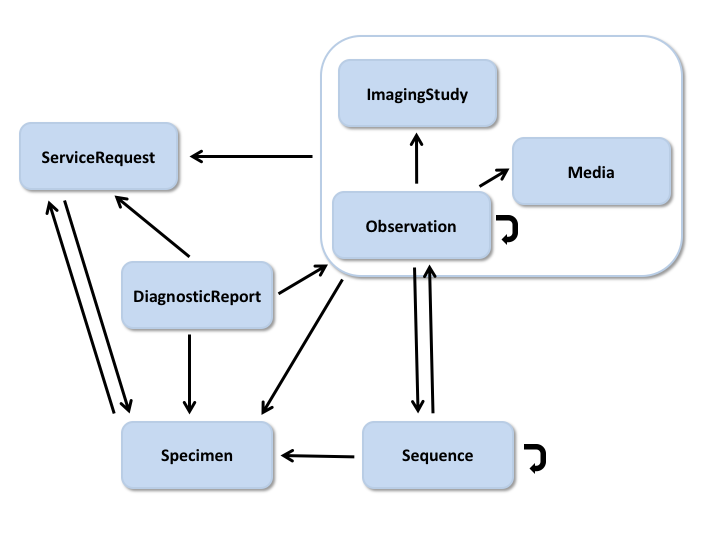
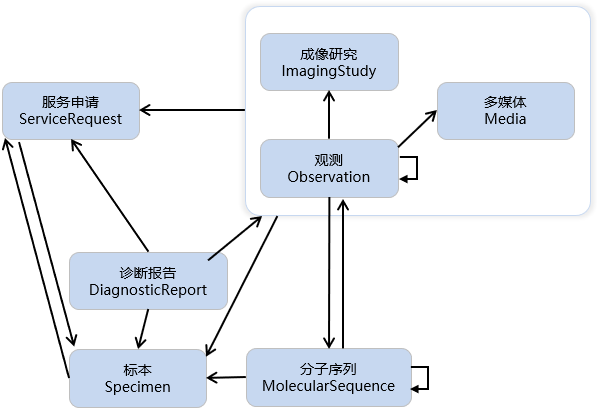
辅助诊断

Changed region(s): [[0.0, 0.0584, 0.9648, 0.9927], [0.9648, 0.4964, 0.995, 0.5255]]

diff --git a/docs/R4/diagnostics-module.html b/docs/R4/diagnostics-module.html
@@ -2,7 +2,7 @@
   <!-- These elements SHALL always appear in this order. These basic elements shared by all resources come first
 in order to support consistent definitions for schema and UML derived code. --><html xmlns="http://www.w3.org/1999/xhtml" xml:lang="zh-CN" lang="zh-CN">
 <head>
-    <title>诊断学 - HL7 FHIR 中国</title>
+    <title>辅助诊断组件 - HL7 FHIR 中国</title>
 
 
   
@@ -64,7 +64,7 @@ in order to support consistent definitions for schema and UML derived code. --><
 	<div id="segment-breadcrumb" class="segment">  <!-- segment-breadcrumb -->
 		<div class="container">  <!-- container -->	
 			<ul class="breadcrumb">
-        <li><b><img src="diagnostics.jpg"/> 诊断学</b></li>          <!-- diagnostics-module.html / page / -->
+        <li><b><img src="diagnostics.jpg"/> 辅助诊断组件</b></li>          <!-- diagnostics-module.html / page / -->
         <div class="breadcrumbRight">
             <ul>
                 <li>
@@ -91,107 +91,135 @@ in order to support consistent definitions for schema and UML derived code. --><
 <table class="colsi"><tr><td id="wg">工作组: <a href="http://www.hl7.org/Special/committees/orders/index.cfm" _target="blank">Orders and Observations <img src="external.png" style="text-align: baseline"/></a> &amp; <a href="http://www.hl7.org/Special/committees/clingenomics/index.cfm" _target="blank">Clinical Genomics <img src="external.png" style="text-align: baseline"/></a> </td><td id="ballot"><a href="versions.html#std-process">标准状态</a>:  <!-- !ns! --><a href="versions.html#std-process">Informative</a></td></tr></table>
 
 <a name="root"></a>
-<h2 class="self-link-parent"><span class="sectioncount">10.0<a name="10.0"> </a></span> Diagnostic Medicine Module <a href="diagnostics-module.html#10.0" title="此处链接地址" class="self-link"><svg viewBox="0 0 1792 1792" width="20" class="self-link" height="20"><path d="M1520 1216q0-40-28-68l-208-208q-28-28-68-28-42 0-72 32 3 3 19 18.5t21.5 21.5 15 19 13 25.5 3.5 27.5q0 40-28 68t-68 28q-15 0-27.5-3.5t-25.5-13-19-15-21.5-21.5-18.5-19q-33 31-33 73 0 40 28 68l206 207q27 27 68 27 40 0 68-26l147-146q28-28 28-67zm-703-705q0-40-28-68l-206-207q-28-28-68-28-39 0-68 27l-147 146q-28 28-28 67 0 40 28 68l208 208q27 27 68 27 42 0 72-31-3-3-19-18.5t-21.5-21.5-15-19-13-25.5-3.5-27.5q0-40 28-68t68-28q15 0 27.5 3.5t25.5 13 19 15 21.5 21.5 18.5 19q33-31 33-73zm895 705q0 120-85 203l-147 146q-83 83-203 83-121 0-204-85l-206-207q-83-83-83-203 0-123 88-209l-88-88q-86 88-208 88-120 0-204-84l-208-208q-84-84-84-204t85-203l147-146q83-83 203-83 121 0 204 85l206 207q83 83 83 203 0 123-88 209l88 88q86-88 208-88 120 0 204 84l208 208q84 84 84 204z" fill="navy"></path></svg></a></h2>
+<h2 class="self-link-parent"><span class="sectioncount">10.0<a name="10.0"> </a></span> 辅助诊断组件 <a href="diagnostics-module.html#10.0" title="此处链接地址" class="self-link"><svg viewBox="0 0 1792 1792" width="20" class="self-link" height="20"><path d="M1520 1216q0-40-28-68l-208-208q-28-28-68-28-42 0-72 32 3 3 19 18.5t21.5 21.5 15 19 13 25.5 3.5 27.5q0 40-28 68t-68 28q-15 0-27.5-3.5t-25.5-13-19-15-21.5-21.5-18.5-19q-33 31-33 73 0 40 28 68l206 207q27 27 68 27 40 0 68-26l147-146q28-28 28-67zm-703-705q0-40-28-68l-206-207q-28-28-68-28-39 0-68 27l-147 146q-28 28-28 67 0 40 28 68l208 208q27 27 68 27 42 0 72-31-3-3-19-18.5t-21.5-21.5-15-19-13-25.5-3.5-27.5q0-40 28-68t68-28q15 0 27.5 3.5t25.5 13 19 15 21.5 21.5 18.5 19q33-31 33-73zm895 705q0 120-85 203l-147 146q-83 83-203 83-121 0-204-85l-206-207q-83-83-83-203 0-123 88-209l-88-88q-86 88-208 88-120 0-204-84l-208-208q-84-84-84-204t85-203l147-146q83-83 203-83 121 0 204 85l206 207q83 83 83 203 0 123-88 209l88 88q86-88 208-88 120 0 204 84l208 208q84 84 84 204z" fill="navy"></path></svg></a></h2>
 
 <a name="intro"></a>
-<h3 class="self-link-parent"><span class="sectioncount">10.0.1</span> Introduction <a href="diagnostics-module.html#intro" title="此处链接地址" class="self-link"><svg viewBox="0 0 1792 1792" width="20" class="self-link" height="20"><path d="M1520 1216q0-40-28-68l-208-208q-28-28-68-28-42 0-72 32 3 3 19 18.5t21.5 21.5 15 19 13 25.5 3.5 27.5q0 40-28 68t-68 28q-15 0-27.5-3.5t-25.5-13-19-15-21.5-21.5-18.5-19q-33 31-33 73 0 40 28 68l206 207q27 27 68 27 40 0 68-26l147-146q28-28 28-67zm-703-705q0-40-28-68l-206-207q-28-28-68-28-39 0-68 27l-147 146q-28 28-28 67 0 40 28 68l208 208q27 27 68 27 42 0 72-31-3-3-19-18.5t-21.5-21.5-15-19-13-25.5-3.5-27.5q0-40 28-68t68-28q15 0 27.5 3.5t25.5 13 19 15 21.5 21.5 18.5 19q33-31 33-73zm895 705q0 120-85 203l-147 146q-83 83-203 83-121 0-204-85l-206-207q-83-83-83-203 0-123 88-209l-88-88q-86 88-208 88-120 0-204-84l-208-208q-84-84-84-204t85-203l147-146q83-83 203-83 121 0 204 85l206 207q83 83 83 203 0 123-88 209l88 88q86-88 208-88 120 0 204 84l208 208q84 84 84 204z" fill="navy"></path></svg></a></h3>
+<h3 class="self-link-parent"><span class="sectioncount">10.0.1</span> 简介 <a href="diagnostics-module.html#intro" title="此处链接地址" class="self-link"><svg viewBox="0 0 1792 1792" width="20" class="self-link" height="20"><path d="M1520 1216q0-40-28-68l-208-208q-28-28-68-28-42 0-72 32 3 3 19 18.5t21.5 21.5 15 19 13 25.5 3.5 27.5q0 40-28 68t-68 28q-15 0-27.5-3.5t-25.5-13-19-15-21.5-21.5-18.5-19q-33 31-33 73 0 40 28 68l206 207q27 27 68 27 40 0 68-26l147-146q28-28 28-67zm-703-705q0-40-28-68l-206-207q-28-28-68-28-39 0-68 27l-147 146q-28 28-28 67 0 40 28 68l208 208q27 27 68 27 42 0 72-31-3-3-19-18.5t-21.5-21.5-15-19-13-25.5-3.5-27.5q0-40 28-68t68-28q15 0 27.5 3.5t25.5 13 19 15 21.5 21.5 18.5 19q33-31 33-73zm895 705q0 120-85 203l-147 146q-83 83-203 83-121 0-204-85l-206-207q-83-83-83-203 0-123 88-209l-88-88q-86 88-208 88-120 0-204-84l-208-208q-84-84-84-204t85-203l147-146q83-83 203-83 121 0 204 85l206 207q83 83 83 203 0 123-88 209l88 88q86-88 208-88 120 0 204 84l208 208q84 84 84 204z" fill="navy"></path></svg></a></h3>
 <p>
-The Diagnostics Module provides an overview and guide to the FHIR content that addresses ordering and reporting of clinical diagnostics including laboratory testing, imaging and genomics.</p>
+    辅助诊断组件提供了FHIR中涉及临床诊断的医嘱和报告的相关内容与指南，包括实验室检验、影像检查和基因检测。</p>
 
 <a name="index"></a>
-<h3 class="self-link-parent"><span class="sectioncount">10.0.2</span> Index <a href="diagnostics-module.html#index" title="此处链接地址" class="self-link"><svg viewBox="0 0 1792 1792" width="20" class="self-link" height="20"><path d="M1520 1216q0-40-28-68l-208-208q-28-28-68-28-42 0-72 32 3 3 19 18.5t21.5 21.5 15 19 13 25.5 3.5 27.5q0 40-28 68t-68 28q-15 0-27.5-3.5t-25.5-13-19-15-21.5-21.5-18.5-19q-33 31-33 73 0 40 28 68l206 207q27 27 68 27 40 0 68-26l147-146q28-28 28-67zm-703-705q0-40-28-68l-206-207q-28-28-68-28-39 0-68 27l-147 146q-28 28-28 67 0 40 28 68l208 208q27 27 68 27 42 0 72-31-3-3-19-18.5t-21.5-21.5-15-19-13-25.5-3.5-27.5q0-40 28-68t68-28q15 0 27.5 3.5t25.5 13 19 15 21.5 21.5 18.5 19q33-31 33-73zm895 705q0 120-85 203l-147 146q-83 83-203 83-121 0-204-85l-206-207q-83-83-83-203 0-123 88-209l-88-88q-86 88-208 88-120 0-204-84l-208-208q-84-84-84-204t85-203l147-146q83-83 203-83 121 0 204 85l206 207q83 83 83 203 0 123-88 209l88 88q86-88 208-88 120 0 204 84l208 208q84 84 84 204z" fill="navy"></path></svg></a></h3>
-<p>The Diagnostics module covers the following resources:</p>
+<h3 class="self-link-parent"><span class="sectioncount">10.0.2</span> 索引 <a href="diagnostics-module.html#index" title="此处链接地址" class="self-link"><svg viewBox="0 0 1792 1792" width="20" class="self-link" height="20"><path d="M1520 1216q0-40-28-68l-208-208q-28-28-68-28-42 0-72 32 3 3 19 18.5t21.5 21.5 15 19 13 25.5 3.5 27.5q0 40-28 68t-68 28q-15 0-27.5-3.5t-25.5-13-19-15-21.5-21.5-18.5-19q-33 31-33 73 0 40 28 68l206 207q27 27 68 27 40 0 68-26l147-146q28-28 28-67zm-703-705q0-40-28-68l-206-207q-28-28-68-28-39 0-68 27l-147 146q-28 28-28 67 0 40 28 68l208 208q27 27 68 27 42 0 72-31-3-3-19-18.5t-21.5-21.5-15-19-13-25.5-3.5-27.5q0-40 28-68t68-28q15 0 27.5 3.5t25.5 13 19 15 21.5 21.5 18.5 19q33-31 33-73zm895 705q0 120-85 203l-147 146q-83 83-203 83-121 0-204-85l-206-207q-83-83-83-203 0-123 88-209l-88-88q-86 88-208 88-120 0-204-84l-208-208q-84-84-84-204t85-203l147-146q83-83 203-83 121 0 204 85l206 207q83 83 83 203 0 123-88 209l88 88q86-88 208-88 120 0 204 84l208 208q84 84 84 204z" fill="navy"></path></svg></a></h3>
+<p>辅助诊断组件包含了下列资源:</p>
 
 <table width="100%" style="table-layout: fixed">
  <tr>
  <td width="33%">
 <ul>
-<li><a href="observation.html">Observation</a></li>
-<li><a href="diagnosticreport.html">DiagnosticReport</a></li>
-<li><a href="servicerequest.html">ServiceRequest</a></li>
+<li><a href="observation.html">观测<br/>Observation</a></li>
+<li><a href="diagnosticreport.html">诊断报告<br/>DiagnosticReport</a></li>
+<li><a href="servicerequest.html">服务申请<br/>ServiceRequest</a></li>
   </ul>
 </td>
  <td width="33%">
 <ul>
-<li><a href="media.html">Media</a></li>
-<li><a href="imagingstudy.html">ImagingStudy</a></li>
-<li><a href="molecularsequence.html">MolecularSequence</a></li>
+<li><a href="media.html">多媒体<br/>Media</a></li>
+<li><a href="imagingstudy.html">成像研究<br/>ImagingStudy</a></li>
+<li><a href="molecularsequence.html">分子序列<br/>MolecularSequence</a></li>
 </ul>
 </td>
  <td width="33%">
 <ul>
- <li><a href="specimen.html">Specimen</a></li>
- <li><a href="bodystructure.html">BodyStructure</a></li>
+ <li><a href="specimen.html">标本<br/>Specimen</a></li>
+ <li><a href="bodystructure.html">人体结构<br/>BodyStructure</a></li>
  </ul>
 </td>
 </tr>
 </table>
 
-   <p>The diagnostic resources and their relationships are shown below.  The arrows represent the direction of the references between resources (for example, DiagnosticReport references ServiceRequest). See the <a href="workflow-module.html">Workflow Module</a> for information about the coordination of activities such as ordering and fulfilling of diagnostics.</p>
-    <img src="diagnostic-module-resources.png" alt="Image showing the diagnostic resources" width="800px"/>
+   <p>
+       辅助诊断资源及其关系如下所示。箭头表示资源之间引用的方向（例如，诊断报告资源DiagnosticReport引用服务申请资源ServiceRequest）。
+       欲了解活动协作的相关信息，如辅助诊断的申请与完成，请参阅<a href="workflow-module.html">工作流组件</a>。
+   </p>
 
-<blockquote><p> <b>Implementation Note:</b> 
-See the <a href="genomics.html">Genomics Implementation Guidance</a> for additional information about how to use the Diagnostic resources for Clinical Genomic Reporting and Analysis.
+    <img src="diagnostic-module-resources.png" alt="Image showing the diagnostic resources" />
+
+<blockquote><p>
+    <b>实施说明：</b>有关如何使用辅助诊断资源进行临床基因组报告和分析的更多信息，请参阅<a href="genomics.html">基因组学实施指南</a>。
+
 </p></blockquote>
 
     <table class="bare">
-        <tr><td><b>Name</b></td><td><b>Aliases</b></td><td><b>Description</b></td></tr>
-        <tr bgcolor="#EFEFEF"><td><a href="observation.html">Observation</a></td><td>Vital Signs, Measurement, Results</td><td>Measurements and simple assertions made about a patient, device or other subject.</td></tr>
+        <tr><td><b>名称</b></td><td><b>其它称谓</b></td><td><b>描述</b></td></tr>
+        <tr bgcolor="#EFEFEF"><td><a href="observation.html">Observation</a></td><td>生命体征、测量、结果</td><td>
+            关于患者、设备或其他目标的测量和简洁断言</td></tr>
 
-        <tr bgcolor="#FFFFFF"><td><a href="diagnosticreport.html">DiagnosticReport</a></td><td>Report, Test, Result, Results, Labs</td><td>The findings and interpretation of diagnostic  tests performed on patients, groups of patients, devices, and locations, and/or specimens derived from these. The report includes clinical context such as requesting and provider information, and some mix of atomic results, images, textual and coded interpretations, and formatted representation of diagnostic reports.</td></tr>
+        <tr bgcolor="#FFFFFF"><td><a href="diagnosticreport.html">DiagnosticReport</a></td><td>报告、检测、结果、试验</td>
+            <td>对患者、患者组、设备、位置或从中提取的标本进行的诊断试验的结果和解释。此报告包括了临床场景（如申请单、提供者信息），有些报告将单项指标结果、图像、文本和带编码的解释、以及带格式的诊断报告混合在一起。</td></tr>
 
-        <tr bgcolor="#EFEFEF"><td><a href="servicerequest.html">ServiceRequest</a></td><td>diagnostic request, referral, referral request</td><td>A record of a request for service such as diagnostic investigations, treatments, or operations to be performed.</td></tr>
+        <tr bgcolor="#EFEFEF"><td><a href="servicerequest.html">ServiceRequest</a></td>
+            <td>诊断申请、转诊、转诊申请</td>
+            <td>服务申请的记录，如诊断循症、治疗或要执行的操作。</td></tr>
 
-        <tr bgcolor="#FFFFFF"><td><a href="media.html">Media</a></td><td></td><td>A photo, video, or audio recording acquired or used in healthcare. The actual content may be inline or provided by direct reference.</td></tr>
+        <tr bgcolor="#FFFFFF"><td><a href="media.html">Media</a></td><td></td>
+            <td>在卫生健康领域获取或使用的照片、视频或音频记录。实际内容可以是内置的，也可以由直接引用提供。 </td></tr>
 
-        <tr bgcolor="#EFEFEF"><td><a href="imagingstudy.html">ImagingStudy</a></td><td></td><td>Representation of the content produced in a DICOM imaging study. A study comprises a set of series, each of which includes a set of Service-Object Pair Instances (SOP Instances - images or other data) acquired or produced in a common context.  A series is of only one modality (e.g. X-ray, CT, MR, ultrasound), but a study may have multiple series of different modalities.</td></tr>
+        <tr bgcolor="#EFEFEF"><td><a href="imagingstudy.html">ImagingStudy</a></td><td></td>
+            <td>
+                对DICOM成像研究中产生内容的表示。成像研究资源ImagingStudy包括一组序列，其中每个序列又包含一组在通用场景中获取或生成的实例（SOP实例：图像或其他数据），每个实例都是成对出现的服务与对象。一个序列只有一种形式（如X光、CT、MR、超声波），但一个ImagingStudy可能有多个不同的形式的序列。
+               </td></tr>
 
-        <tr bgcolor="#FFFFFF"><td><a href="molecularsequence.html">MolecularSequence</a></td><td></td><td>Raw data describing a biological sequence.</td></tr>
+        <tr bgcolor="#FFFFFF"><td><a href="molecularsequence.html">MolecularSequence</a></td><td></td>
+            <td>描述生物序列的原始数据。</td></tr>
 
-        <tr bgcolor="#EFEFEF"><td><a href="specimen.html">Specimen</a></td><td></td><td>A sample to be used for analysis.</td></tr>
+        <tr bgcolor="#EFEFEF"><td><a href="specimen.html">Specimen</a></td><td></td>
+            <td>用于分析的样本。</td></tr>
 
-        <tr bgcolor="#FFFFFF"><td><a href="bodystructure.html">BodyStructure</a></td><td>anatomical location</td><td>Record details about an anatomical structure.  This resource may be used when a coded concept does not provide the necessary detail needed for the use case.</td></tr>
+        <tr bgcolor="#FFFFFF"><td><a href="bodystructure.html">BodyStructure</a></td><td>解剖部位</td>
+            <td>记录有关解剖结构的详细信息。没有编码概念可以为用例提供所需的必要细节时，可以使用此资源。</td></tr>
 
     </table>
 
 <a name="secpriv"></a>
-<h3 class="self-link-parent"><span class="sectioncount">10.0.3</span> Security and Privacy <a href="diagnostics-module.html#secpriv" title="此处链接地址" class="self-link"><svg viewBox="0 0 1792 1792" width="20" class="self-link" height="20"><path d="M1520 1216q0-40-28-68l-208-208q-28-28-68-28-42 0-72 32 3 3 19 18.5t21.5 21.5 15 19 13 25.5 3.5 27.5q0 40-28 68t-68 28q-15 0-27.5-3.5t-25.5-13-19-15-21.5-21.5-18.5-19q-33 31-33 73 0 40 28 68l206 207q27 27 68 27 40 0 68-26l147-146q28-28 28-67zm-703-705q0-40-28-68l-206-207q-28-28-68-28-39 0-68 27l-147 146q-28 28-28 67 0 40 28 68l208 208q27 27 68 27 42 0 72-31-3-3-19-18.5t-21.5-21.5-15-19-13-25.5-3.5-27.5q0-40 28-68t68-28q15 0 27.5 3.5t25.5 13 19 15 21.5 21.5 18.5 19q33-31 33-73zm895 705q0 120-85 203l-147 146q-83 83-203 83-121 0-204-85l-206-207q-83-83-83-203 0-123 88-209l-88-88q-86 88-208 88-120 0-204-84l-208-208q-84-84-84-204t85-203l147-146q83-83 203-83 121 0 204 85l206 207q83 83 83 203 0 123-88 209l88 88q86-88 208-88 120 0 204 84l208 208q84 84 84 204z" fill="navy"></path></svg></a></h3>
+<h3 class="self-link-parent"><span class="sectioncount">10.0.3</span> 安全与隐私 <a href="diagnostics-module.html#secpriv" title="此处链接地址" class="self-link"><svg viewBox="0 0 1792 1792" width="20" class="self-link" height="20"><path d="M1520 1216q0-40-28-68l-208-208q-28-28-68-28-42 0-72 32 3 3 19 18.5t21.5 21.5 15 19 13 25.5 3.5 27.5q0 40-28 68t-68 28q-15 0-27.5-3.5t-25.5-13-19-15-21.5-21.5-18.5-19q-33 31-33 73 0 40 28 68l206 207q27 27 68 27 40 0 68-26l147-146q28-28 28-67zm-703-705q0-40-28-68l-206-207q-28-28-68-28-39 0-68 27l-147 146q-28 28-28 67 0 40 28 68l208 208q27 27 68 27 42 0 72-31-3-3-19-18.5t-21.5-21.5-15-19-13-25.5-3.5-27.5q0-40 28-68t68-28q15 0 27.5 3.5t25.5 13 19 15 21.5 21.5 18.5 19q33-31 33-73zm895 705q0 120-85 203l-147 146q-83 83-203 83-121 0-204-85l-206-207q-83-83-83-203 0-123 88-209l-88-88q-86 88-208 88-120 0-204-84l-208-208q-84-84-84-204t85-203l147-146q83-83 203-83 121 0 204 85l206 207q83 83 83 203 0 123-88 209l88 88q86-88 208-88 120 0 204 84l208 208q84 84 84 204z" fill="navy"></path></svg></a></h3>
 <p>
-The diagnostic resources often represent patient-specific data, and as such are susceptible to data breaching.  Necessary privacy and security provisions must be in place when searching and fetching this information.  For more general considerations, see <a href="secpriv-module.html">the Security and Privacy module</a>.
+    辅助诊断资源通常代表特定于患者的数据，因此容易受到数据破坏的影响。在搜索和获取此信息时，必须制定必要的隐私和安全规定。
+    有关更一般的注意事项，请参阅<a href="secpriv-module.html">安全与隐私组件</a>。
+
 </p>
 
 <a name="uses"></a>
-<h3 class="self-link-parent"><span class="sectioncount">10.0.4</span> Common Use Cases <a href="diagnostics-module.html#uses" title="此处链接地址" class="self-link"><svg viewBox="0 0 1792 1792" width="20" class="self-link" height="20"><path d="M1520 1216q0-40-28-68l-208-208q-28-28-68-28-42 0-72 32 3 3 19 18.5t21.5 21.5 15 19 13 25.5 3.5 27.5q0 40-28 68t-68 28q-15 0-27.5-3.5t-25.5-13-19-15-21.5-21.5-18.5-19q-33 31-33 73 0 40 28 68l206 207q27 27 68 27 40 0 68-26l147-146q28-28 28-67zm-703-705q0-40-28-68l-206-207q-28-28-68-28-39 0-68 27l-147 146q-28 28-28 67 0 40 28 68l208 208q27 27 68 27 42 0 72-31-3-3-19-18.5t-21.5-21.5-15-19-13-25.5-3.5-27.5q0-40 28-68t68-28q15 0 27.5 3.5t25.5 13 19 15 21.5 21.5 18.5 19q33-31 33-73zm895 705q0 120-85 203l-147 146q-83 83-203 83-121 0-204-85l-206-207q-83-83-83-203 0-123 88-209l-88-88q-86 88-208 88-120 0-204-84l-208-208q-84-84-84-204t85-203l147-146q83-83 203-83 121 0 204 85l206 207q83 83 83 203 0 123-88 209l88 88q86-88 208-88 120 0 204 84l208 208q84 84 84 204z" fill="navy"></path></svg></a></h3>
+<h3 class="self-link-parent"><span class="sectioncount">10.0.4</span> 常见用例 <a href="diagnostics-module.html#uses" title="此处链接地址" class="self-link"><svg viewBox="0 0 1792 1792" width="20" class="self-link" height="20"><path d="M1520 1216q0-40-28-68l-208-208q-28-28-68-28-42 0-72 32 3 3 19 18.5t21.5 21.5 15 19 13 25.5 3.5 27.5q0 40-28 68t-68 28q-15 0-27.5-3.5t-25.5-13-19-15-21.5-21.5-18.5-19q-33 31-33 73 0 40 28 68l206 207q27 27 68 27 40 0 68-26l147-146q28-28 28-67zm-703-705q0-40-28-68l-206-207q-28-28-68-28-39 0-68 27l-147 146q-28 28-28 67 0 40 28 68l208 208q27 27 68 27 42 0 72-31-3-3-19-18.5t-21.5-21.5-15-19-13-25.5-3.5-27.5q0-40 28-68t68-28q15 0 27.5 3.5t25.5 13 19 15 21.5 21.5 18.5 19q33-31 33-73zm895 705q0 120-85 203l-147 146q-83 83-203 83-121 0-204-85l-206-207q-83-83-83-203 0-123 88-209l-88-88q-86 88-208 88-120 0-204-84l-208-208q-84-84-84-204t85-203l147-146q83-83 203-83 121 0 204 85l206 207q83 83 83 203 0 123-88 209l88 88q86-88 208-88 120 0 204 84l208 208q84 84 84 204z" fill="navy"></path></svg></a></h3>
 <p>
-Diagnostic resources are commonly used to plan, recommend, order and report clinical diagnostics:
+
+    辅助诊断资源通常用于计划、推荐、下达和报告临床诊断：
 </p>
 <ul>
-<li>Planning a diagnostic test such as in this <a href="careplan-example-f203-sepsis.html">Careplan-example</a></li>
-<li>Recommending diagnostics such as is done by Clinical Decision Support tools. See the <a href="clinicalreasoning-module.html">Clinical Reasoning module</a> for more information.</li>
-<li>Ordering a Laboratory Test such as a <a href="servicerequest-example-lipid.html">lipid panel</a></li>
-<li>Reporting a Laboratory Test such as a <a href="diagnosticreport-example-lipids.html">lipid panel</a></li>
-<li>Ordering an imaging study such as a <a href="servicerequest-example-di.html">CT study</a></li>
-<li>Reporting an imaging study such as a <a href="imagingstudy-example.html">CT study</a></li>
-<li>Ordering a genetic test such as a <a href="servicerequest-genetics-example-1.html">gene mutation analysis </a></li>
-<li>Reporting a genetic test such as <a href="diagnosticreport-hla-genetics-results-example.html">HLA genotyping</a></li>
+<li>
+    计划一个诊断测试，见<a href="careplan-example-f203-sepsis.html">照护计划示例</a></li>
+<li>
+    诊断意见，如通过临床决策支持工具给出建议的诊断。有关更多信息，请参阅<a href="clinicalreasoning-module.html">临床推理组件</a>。
+   </li>
+<li>
+    下达检验申请，如<a href="servicerequest-example-lipid.html">血脂全项检测</a></li>
+<li>报告实验室检验结果，如 <a href="diagnosticreport-example-lipids.html">血脂全项报告</a></li>
+<li>下达影像检查，如<a href="servicerequest-example-di.html">CT 检查</a></li>
+<li>报告影像检查结果，如 <a href="imagingstudy-example.html">CT 报告</a></li>
+<li>下达基因检测申请，如 <a href="servicerequest-genetics-example-1.html">基因突变分析 </a></li>
+<li>报告基因检测结果，如 <a href="diagnosticreport-hla-genetics-results-example.html">HLA（人类白细胞抗原）基因分析结果</a></li>
 </ul>
-<p>
-There are many ways to use these resources independently as well.  The Observation resource, in particular, is central to capturing many measurements and events in healthcare and is often used outside the context of diagnostic orders and reports.
+<p>有很多方法可以独立地使用这些资源。特别是观测资源，在卫生健康领域中，许多测量和事件都是围绕着它来进行的，观测资源还常用于辅助诊断医嘱和报告之外的场境。
+
 </p>
 <ul>
-<li>recording vital signs such as <a href="observation-example-f202-temperature.html">temperature</a></li>
-<li>recording other observations of a patient's social history such as tobacco use</li>
-<li>recording other characteristics of a patient such as pregnancy status (note: The Condition resource may be used to represent these as well)</li>
-<li>recording clinical assessment tool scores such as an <a href="observation-example-5minute-apgar-score.html">Apgar score</a>.</li>
-<li>identifying and describing a <a href="specimen-example-serum.html">specimen</a> or <a href="bodystructure-example-tumor.html">body site</a></li>
+<li>记录生命体征，如 <a href="observation-example-f202-temperature.html">体温</a></li>
+<li>记录患者社会史的其他观测结果，如吸烟史</li>
+<li>
+    记录患者的其他特征，如妊娠状态（注：也可用病症情况资源Condition来表示）
+   </li>
+<li>记录临床评估工具评分，如。<a href="observation-example-5minute-apgar-score.html">Apgar 评分</a>.</li>
+<li>识别和描述 <a href="specimen-example-serum.html">标本</a> 或 <a href="bodystructure-example-tumor.html">身体部位</a></li>
 </ul>
 
 <a name="related"></a>
-<h3 class="self-link-parent"><span class="sectioncount">10.0.5</span> Related Resources and Modules <a href="diagnostics-module.html#related" title="此处链接地址" class="self-link"><svg viewBox="0 0 1792 1792" width="20" class="self-link" height="20"><path d="M1520 1216q0-40-28-68l-208-208q-28-28-68-28-42 0-72 32 3 3 19 18.5t21.5 21.5 15 19 13 25.5 3.5 27.5q0 40-28 68t-68 28q-15 0-27.5-3.5t-25.5-13-19-15-21.5-21.5-18.5-19q-33 31-33 73 0 40 28 68l206 207q27 27 68 27 40 0 68-26l147-146q28-28 28-67zm-703-705q0-40-28-68l-206-207q-28-28-68-28-39 0-68 27l-147 146q-28 28-28 67 0 40 28 68l208 208q27 27 68 27 42 0 72-31-3-3-19-18.5t-21.5-21.5-15-19-13-25.5-3.5-27.5q0-40 28-68t68-28q15 0 27.5 3.5t25.5 13 19 15 21.5 21.5 18.5 19q33-31 33-73zm895 705q0 120-85 203l-147 146q-83 83-203 83-121 0-204-85l-206-207q-83-83-83-203 0-123 88-209l-88-88q-86 88-208 88-120 0-204-84l-208-208q-84-84-84-204t85-203l147-146q83-83 203-83 121 0 204 85l206 207q83 83 83 203 0 123-88 209l88 88q86-88 208-88 120 0 204 84l208 208q84 84 84 204z" fill="navy"></path></svg></a></h3>
-<p> The resources that represent the basic information about a patient and a clinical encounter can be found in the <a href="administration-module.html">Administration Module</a>. Other resources that represent core clinical information generated by healthcare providers during the course of a patient encounter are detailed in the <a href="clinicalsummary-module.html">Clinical Summary Module</a> and the <a href="medications-module.html">Medications Module</a>.</p>
+<h3 class="self-link-parent"><span class="sectioncount">10.0.5</span> 相关的资源与组件 <a href="diagnostics-module.html#related" title="此处链接地址" class="self-link"><svg viewBox="0 0 1792 1792" width="20" class="self-link" height="20"><path d="M1520 1216q0-40-28-68l-208-208q-28-28-68-28-42 0-72 32 3 3 19 18.5t21.5 21.5 15 19 13 25.5 3.5 27.5q0 40-28 68t-68 28q-15 0-27.5-3.5t-25.5-13-19-15-21.5-21.5-18.5-19q-33 31-33 73 0 40 28 68l206 207q27 27 68 27 40 0 68-26l147-146q28-28 28-67zm-703-705q0-40-28-68l-206-207q-28-28-68-28-39 0-68 27l-147 146q-28 28-28 67 0 40 28 68l208 208q27 27 68 27 42 0 72-31-3-3-19-18.5t-21.5-21.5-15-19-13-25.5-3.5-27.5q0-40 28-68t68-28q15 0 27.5 3.5t25.5 13 19 15 21.5 21.5 18.5 19q33-31 33-73zm895 705q0 120-85 203l-147 146q-83 83-203 83-121 0-204-85l-206-207q-83-83-83-203 0-123 88-209l-88-88q-86 88-208 88-120 0-204-84l-208-208q-84-84-84-204t85-203l147-146q83-83 203-83 121 0 204 85l206 207q83 83 83 203 0 123-88 209l88 88q86-88 208-88 120 0 204 84l208 208q84 84 84 204z" fill="navy"></path></svg></a></h3>
+<p>
+    在<a href="administration-module.html">管理组件</a>中可以找到代表患者基本信息和临床就诊信息的资源。
+    其他代表卫生健康提供者在患者就诊过程中产生的核心临床信息的资源在 <a href="clinicalsummary-module.html">临床摘要组件</a>和<a href="medications-module.html">药物组件</a>中详细介绍。
+    </p>
 
 <a name="roadmap"></a>
-<h3 class="self-link-parent"><span class="sectioncount">10.0.6</span> Developmental Roadmap <a href="diagnostics-module.html#roadmap" title="此处链接地址" class="self-link"><svg viewBox="0 0 1792 1792" width="20" class="self-link" height="20"><path d="M1520 1216q0-40-28-68l-208-208q-28-28-68-28-42 0-72 32 3 3 19 18.5t21.5 21.5 15 19 13 25.5 3.5 27.5q0 40-28 68t-68 28q-15 0-27.5-3.5t-25.5-13-19-15-21.5-21.5-18.5-19q-33 31-33 73 0 40 28 68l206 207q27 27 68 27 40 0 68-26l147-146q28-28 28-67zm-703-705q0-40-28-68l-206-207q-28-28-68-28-39 0-68 27l-147 146q-28 28-28 67 0 40 28 68l208 208q27 27 68 27 42 0 72-31-3-3-19-18.5t-21.5-21.5-15-19-13-25.5-3.5-27.5q0-40 28-68t68-28q15 0 27.5 3.5t25.5 13 19 15 21.5 21.5 18.5 19q33-31 33-73zm895 705q0 120-85 203l-147 146q-83 83-203 83-121 0-204-85l-206-207q-83-83-83-203 0-123 88-209l-88-88q-86 88-208 88-120 0-204-84l-208-208q-84-84-84-204t85-203l147-146q83-83 203-83 121 0 204 85l206 207q83 83 83 203 0 123-88 209l88 88q86-88 208-88 120 0 204 84l208 208q84 84 84 204z" fill="navy"></path></svg></a></h3>
+<h3 class="self-link-parent"><span class="sectioncount">10.0.6</span> 开发路线图 <a href="diagnostics-module.html#roadmap" title="此处链接地址" class="self-link"><svg viewBox="0 0 1792 1792" width="20" class="self-link" height="20"><path d="M1520 1216q0-40-28-68l-208-208q-28-28-68-28-42 0-72 32 3 3 19 18.5t21.5 21.5 15 19 13 25.5 3.5 27.5q0 40-28 68t-68 28q-15 0-27.5-3.5t-25.5-13-19-15-21.5-21.5-18.5-19q-33 31-33 73 0 40 28 68l206 207q27 27 68 27 40 0 68-26l147-146q28-28 28-67zm-703-705q0-40-28-68l-206-207q-28-28-68-28-39 0-68 27l-147 146q-28 28-28 67 0 40 28 68l208 208q27 27 68 27 42 0 72-31-3-3-19-18.5t-21.5-21.5-15-19-13-25.5-3.5-27.5q0-40 28-68t68-28q15 0 27.5 3.5t25.5 13 19 15 21.5 21.5 18.5 19q33-31 33-73zm895 705q0 120-85 203l-147 146q-83 83-203 83-121 0-204-85l-206-207q-83-83-83-203 0-123 88-209l-88-88q-86 88-208 88-120 0-204-84l-208-208q-84-84-84-204t85-203l147-146q83-83 203-83 121 0 204 85l206 207q83 83 83 203 0 123-88 209l88 88q86-88 208-88 120 0 204 84l208 208q84 84 84 204z" fill="navy"></path></svg></a></h3>
 <p>
 
 

diff --git a/docs/R4/diagnosticreport.html b/docs/R4/diagnosticreport.html
@@ -94,9 +94,7 @@
 <table class="colstu"><tr><td>工作组:<a href="http://www.hl7.org/Special/committees/orders/index.cfm">Orders and Observations <img src="external.png" style="text-align: baseline"/></a></td><td><a href="versions.html#maturity">成熟度</a>: 3</td><td>&nbsp;<a href="versions.html#std-process" title="Standard Status">Trial Use</a></td><td><a href="security.html#SecPrivConsiderations">Security Category</a>: Patient</td>  <!-- !ns! --><td><a href="compartmentdefinition.html">Compartments</a>: <a href="compartmentdefinition-device.html">Device</a>, <a href="compartmentdefinition-encounter.html">Encounter</a>, <a href="compartmentdefinition-patient.html">Patient</a>, <a href="compartmentdefinition-practitioner.html">Practitioner</a></td></tr></table>
 
 
-<p>
-<p>The findings and interpretation of diagnostic  tests performed on patients, groups of patients, devices, and locations, and/or specimens derived from these. The report includes clinical context such as requesting and provider information, and some mix of atomic results, images, textual and coded interpretations, and formatted representation of diagnostic reports.</p>
-
+<p>对患者、患者组、设备、位置或从中提取的标本进行的诊断试验的结果和解释。此报告包括了临床场景（如申请单、提供者信息），有些报告将单项指标结果、图像、文本和带编码的解释、以及带格式的诊断报告混合在一起。</td></tr>
 </p>
 
 <div>

diff --git a/docs/R4/ztreeJs/ztreeData.js b/docs/R4/ztreeJs/ztreeData.js
@@ -181,7 +181,7 @@ var zNodes =[
 			},
 			{id:412, name:" 4.12 Resource TerminologyCapabilities - Content",iconSkin:"pIcon01",url:"terminologycapabilities.html", target:"_blank"},
 		]},
-	{ id:5, pId:0, name:" 5 Conformance Module ", open:false, iconSkin:"pIcon01",url:"conformance-module.html", target:"_self",
+	{ id:5, pId:0, name:" 5 Conformance Module ", open:false, iconSkin:"pIcon01",url:"conformance-module.html",fineTitle:"符合性组件", target:"_self",
         children:[
             {id:51, name:" 5.1 Profiling FHIR",iconSkin:"icon01",url:"profiling.html", target:"_blank"},
             {id:52, name:" 5.2 Resource CapabilityStatement - Content",iconSkin:"icon01",url:"capabilitystatement.html", target:"_blank",
@@ -341,7 +341,7 @@ var zNodes =[
             {id:911, name:" 9.11 Resource RiskAssessment - Content",iconSkin:"pIcon01",url:"riskassessment.html", target:"_blank"},
 
 			]},
-	{ id:10, pId:0, name:" 10 Diagnostic Medicine Module", open:false, iconSkin:"pIcon01",url:"diagnostics-module.html", target:"_self",
+	{ id:10, pId:0, name:" 10 Diagnostic Medicine Module", open:false, iconSkin:"pIcon01",url:"diagnostics-module.html",fineTitle:"辅助诊断组件", target:"_self",
         children:[
             {id:101, name:" 10.1 Resource Observation - Content",iconSkin:"icon01",url:"observation.html", target:"_blank",
 				children:[

diff --git a/docs/R4/bodystructure.html b/docs/R4/bodystructure.html
@@ -1,7 +1,7 @@
 <!DOCTYPE HTML>
 <html xmlns="http://www.w3.org/1999/xhtml" xml:lang="zh-CN" lang="zh-CN">
 <head>
-    <title>身体结构 - HL7 FHIR 中国</title>
+    <title>人体结构 - HL7 FHIR 中国</title>
 
 
   
@@ -63,7 +63,7 @@
 	<div id="segment-breadcrumb" class="segment">  <!-- segment-breadcrumb -->
 		<div class="container">  <!-- container -->	
 			<ul class="breadcrumb">
-        <li><img src="diagnostics.jpg"/> <b> 当前位置：</b><a href="diagnostics-module.html">诊断学</a></li>        <li>身体结构</li>         <!-- bodystructure.html / resource / BodyStructure -->
+        <li><img src="diagnostics.jpg"/> <b> 当前位置：</b><a href="diagnostics-module.html">辅助诊断组件 </a></li>        <li>身体结构</li>         <!-- bodystructure.html / resource / BodyStructure -->
 
 			</ul>	
 		</div>  <!-- /container -->
@@ -87,7 +87,7 @@
 
 
                         <p>
-                      记录有关解剖结构的详细信息。当没有已编码的相关概念能为用例提供所需的必要细节时，可以使用此资源。
+                      记录有关解剖结构的详细信息。没有编码概念可以为用例提供所需的必要细节时，可以使用此资源。
                         </p>
 
                         <div>

diff --git a/docs/R4/molecularsequence.html b/docs/R4/molecularsequence.html
@@ -1,7 +1,7 @@
 <!DOCTYPE HTML>
 <html xmlns="http://www.w3.org/1999/xhtml" xml:lang="zh-CN" lang="zh-CN">
 <head>
-    <title>分子序列 - HL7 FHIR 中国</title>
+    <title>分子序列资源 - HL7 FHIR 中国</title>
 
   
   <meta name="viewport" content="width=device-width, initial-scale=1.0"/>
@@ -62,7 +62,7 @@
 	<div id="segment-breadcrumb" class="segment">  <!-- segment-breadcrumb -->
 		<div class="container">  <!-- container -->	
 			<ul class="breadcrumb">
-        <li><img src="diagnostics.jpg"/><b> 当前位置：</b><a href="diagnostics-module.html"> 诊断学</a></li>        <li>分子序列</li>         <!-- molecularsequence.html / resource / MolecularSequence -->
+        <li><img src="diagnostics.jpg"/><b> 当前位置：</b><a href="diagnostics-module.html"> 辅助诊断组件</a></li>        <li>分子序列</li>         <!-- molecularsequence.html / resource / MolecularSequence -->
 
 			</ul>	
 		</div>  <!-- /container -->
@@ -86,7 +86,7 @@
 
 
 <p>
-<p>Raw data describing a biological sequence.</p>
+<p>描述生物序列的原始数据。</p>
 
 </p>
 

diff --git a/docs/R4/specimen.html b/docs/R4/specimen.html
@@ -1,7 +1,7 @@
 <!DOCTYPE HTML>
 <html xmlns="http://www.w3.org/1999/xhtml" xml:lang="zh-CN" lang="zh-CN">
 <head>
-    <title>标本 - HL7 FHIR 中国</title>
+    <title>标本资源 - HL7 FHIR 中国</title>
 
   
   <meta name="viewport" content="width=device-width, initial-scale=1.0"/>
@@ -62,7 +62,7 @@
 	<div id="segment-breadcrumb" class="segment">  <!-- segment-breadcrumb -->
 		<div class="container">  <!-- container -->	
 			<ul class="breadcrumb">
-        <li><img src="diagnostics.jpg"/><b> 当前位置：</b><a href="diagnostics-module.html"> 诊断学</a></li>        <li>标本</li>         <!-- specimen.html / resource / Specimen -->
+        <li><img src="diagnostics.jpg"/><b> 当前位置：</b><a href="diagnostics-module.html">  辅助诊断组件</a></li>        <li>标本</li>         <!-- specimen.html / resource / Specimen -->
 
 			</ul>	
 		</div>  <!-- /container -->
@@ -86,7 +86,7 @@
 
 
 <p>
-<p>A sample to be used for analysis.</p>
+<p>用于分析的样本。</p>
 
 </p>
 
